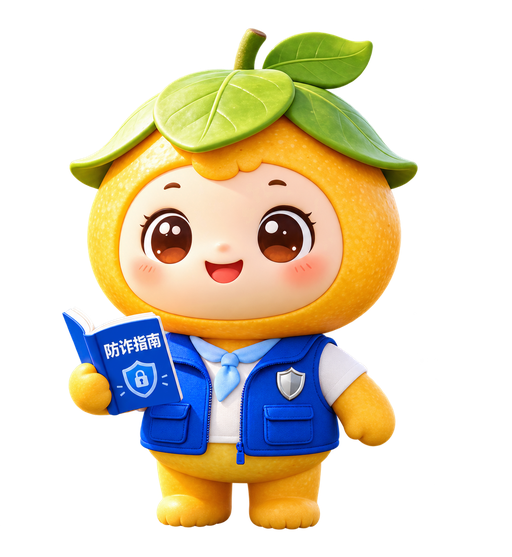
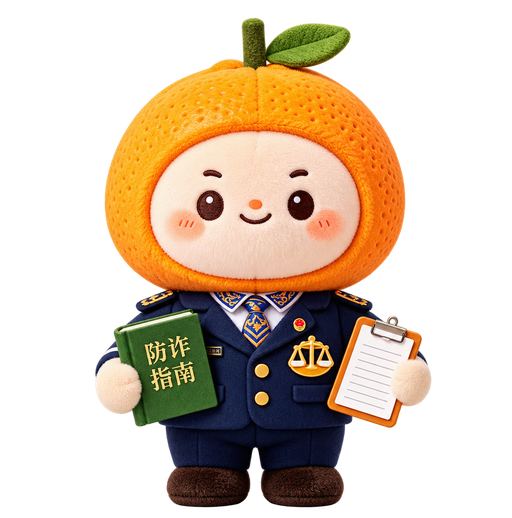
feat: replace three mascot game pieces

diff --git a/app.js b/app.js
@@ -1,9 +1,9 @@
 const maps=[{title:'彩虹校园：守护同学群',goal:'收集 3 颗安全星星，就能点亮校园防护罩。',mission:'帮同学识破陌生链接',events:['link','refund','quiz']},{title:'阳光社区：守护爷爷奶奶',goal:'完成 2 次守护行动，点亮社区的平安灯。',mission:'教会家人核验陌生电话',events:['refund','delivery','quiz']},{title:'网络星球：打败骗局怪',goal:'找到 3 条关键线索，让骗局怪无处藏身。',mission:'识破屏幕共享小把戏',events:['screen','link','quiz']}];
 const heroes={
   red:{name:'橙小盾队长',short:'红盾',speech:'“看到可疑消息，先翻开防诈指南！”',image:'assets/characters/mascot-red.png'},
-  blue:{name:'蓝小安队长',short:'蓝安',speech:'“陌生链接不乱点，先核实再行动！”',image:'assets/characters/mascot-blue.png'},
-  green:{name:'绿小查队长',short:'绿查',speech:'“多看一眼线索，骗局就会露馅！”',image:'assets/characters/mascot-green.png'},
-  purple:{name:'紫小星队长',short:'紫星',speech:'“验证码是秘密，谁来索要都不给！”',image:'assets/characters/mascot-purple.png'}
+  blue:{name:'蜜桔小法',short:'小法',speech:'“先学法、再识骗，关键一步要核验！”',image:'assets/characters/mascot-blue.png'},
+  green:{name:'柿蒂阿婆',short:'阿婆',speech:'“不贪小便宜，陌生转账先问清！”',image:'assets/characters/mascot-green.png'},
+  purple:{name:'桃桃普法员',short:'桃桃',speech:'“验证码是秘密，谁来索要都不给！”',image:'assets/characters/mascot-purple.png'}
 };
 const pieceTeams=['red','blue','green','purple'];
 const cells=[['起飞站','🚩','home'],['安全草地','🌿','safe'],['神秘宝箱','🎁','chest'],['链接迷雾','⚠','risk','link'],['线索站','🔎','clue','quiz'],['守护同学','🤝','help'],['安全草地','🌿','safe'],['退款怪','👾','risk','refund'],['神秘宝箱','🎁','chest'],['安全电话亭','☎','help'],['快递迷雾','📦','risk','delivery'],['安全草地','🌿','safe'],['星星补给','⭐','chest'],['线索站','🔎','clue','quiz'],['屏幕共享怪','🖥','risk','screen'],['守护家人','🏠','help'],['安全草地','🌿','safe'],['链接迷雾','🔗','risk','link'],['神秘宝箱','🎁','chest'],['小喇叭站','📣','help'],['线索站','🔎','clue','quiz'],['快递迷雾','📦','risk','delivery'],['安全草地','🌿','safe'],['平安终点','🏆','finish']];

diff --git a/index.html b/index.html
@@ -36,7 +36,7 @@
       </article>
 
       <aside class="side-panel">
-        <section class="hero-picker"><p>选择你的反诈队长</p><div id="heroPicker"><button data-hero="red" class="selected" aria-label="选择橙小盾队长"><img src="assets/characters/mascot-red.png" alt="" /><span>红盾</span></button><button data-hero="blue" aria-label="选择蓝小安队长"><img src="assets/characters/mascot-blue.png" alt="" /><span>蓝安</span></button><button data-hero="green" aria-label="选择绿小查队长"><img src="assets/characters/mascot-green.png" alt="" /><span>绿查</span></button><button data-hero="purple" aria-label="选择紫小星队长"><img src="assets/characters/mascot-purple.png" alt="" /><span>紫星</span></button></div></section>
+        <section class="hero-picker"><p>选择你的反诈队长</p><div id="heroPicker"><button data-hero="red" class="selected" aria-label="选择橙小盾队长"><img src="assets/characters/mascot-red.png" alt="" /><span>红盾</span></button><button data-hero="blue" aria-label="选择蜜桔小法"><img src="assets/characters/mascot-blue.png" alt="" /><span>小法</span></button><button data-hero="green" aria-label="选择柿蒂阿婆"><img src="assets/characters/mascot-green.png" alt="" /><span>阿婆</span></button><button data-hero="purple" aria-label="选择桃桃普法员"><img src="assets/characters/mascot-purple.png" alt="" /><span>桃桃</span></button></div></section>
         <section class="mission"><p>今日小任务</p><b id="missionTitle">帮同学识破陌生链接</b><span id="missionProgress">0 / 2 次线索发现</span></section>
         <section class="dice-area"><p id="turnHint">掷出 6 点，让一位反诈伙伴出发！</p><button class="dice" id="rollButton" type="button"><span id="diceValue">✦</span></button><b id="rollStatus">准备出发</b></section>
         <section class="plane-select"><p>选择要移动的反诈伙伴</p><div id="planeChoices"></div></section>
